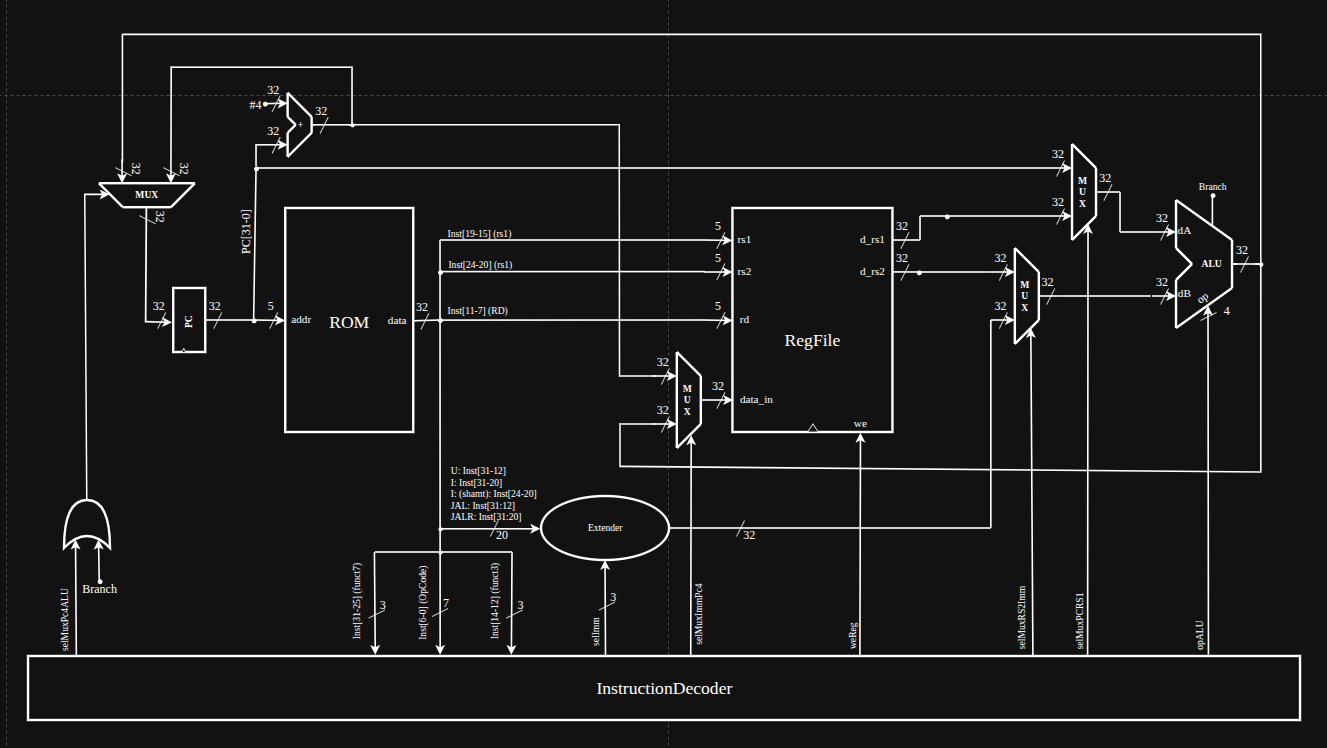
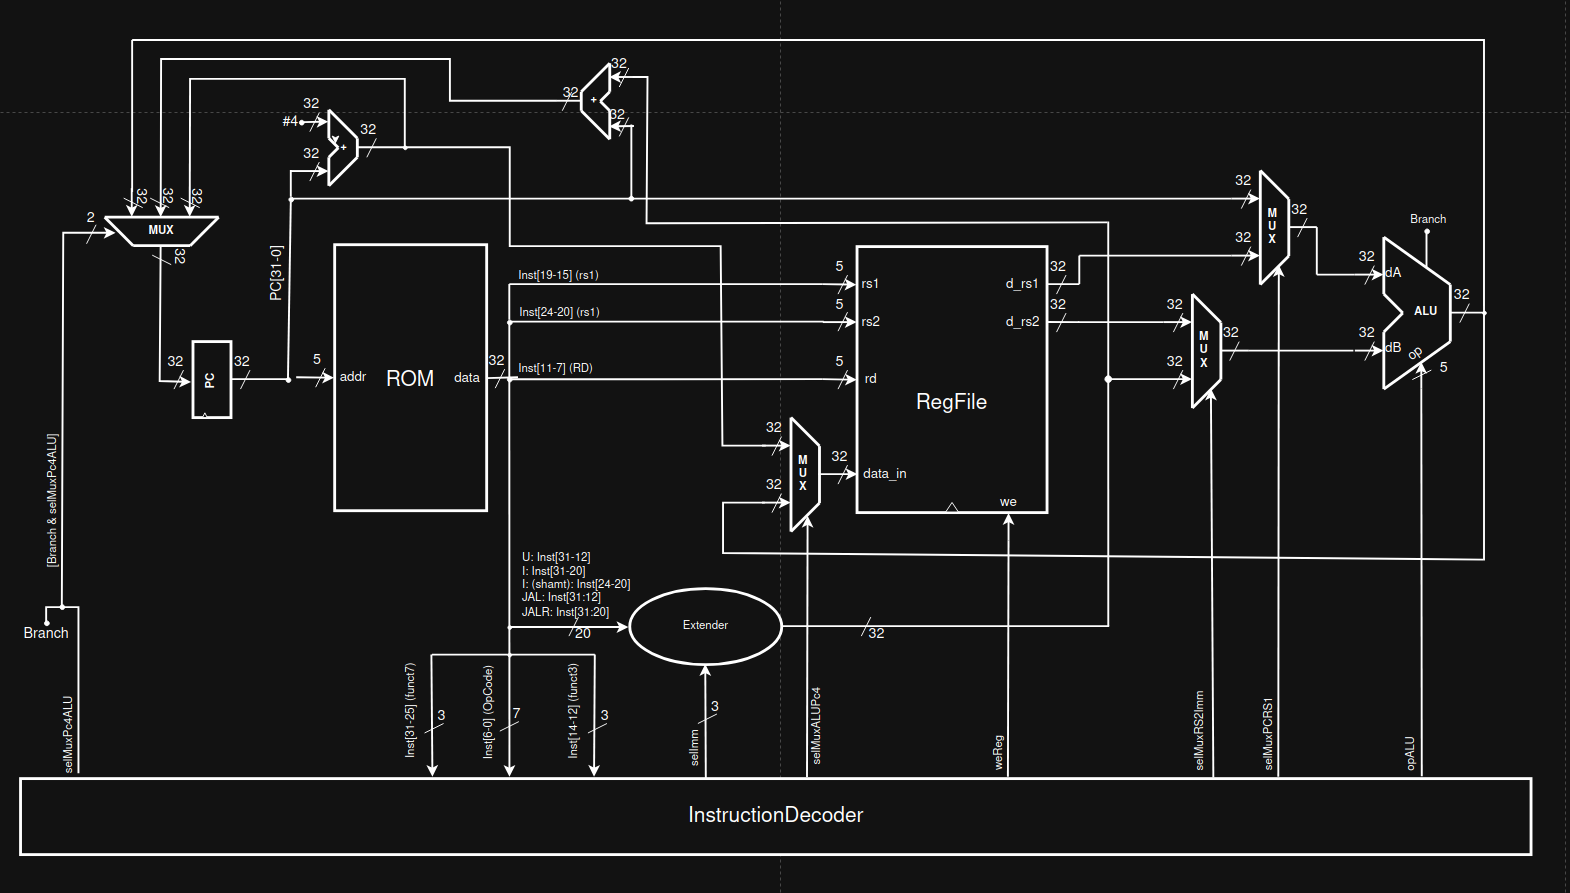
correcao diagramas

Changed region(s): [[0.0, 0.0307, 0.9887, 0.984], [0.7415, 0.6765, 0.7724, 0.7072]]

diff --git a/docs/README.md b/docs/README.md
@@ -107,11 +107,11 @@ A implementação das instruções em hardware foi conduzida de forma incrementa
 **[ALTERADO]**: Alterado
 
 #### Extender — Operações
-- **[NOVO]****U**: `out[31:0] = sext(instr[31:12] << 12)`
+- **[NOVO]** **U**: `out[31:0] = sext(instr[31:12] << 12)`
 
 #### ALU — Operações
-- **[NOVO]****PASS_B** : `out[31:0] = B[31:0]`
-- **[NOVO]****ADD**  : `out[31:0] = A[31:0] + B[31:0]`
+- **[NOVO]** **PASS_B** : `out[31:0] = B[31:0]`
+- **[NOVO]** **ADD**  : `out[31:0] = A[31:0] + B[31:0]`
 
 #### Decoder
 - **Entradas**
@@ -143,18 +143,18 @@ A implementação das instruções em hardware foi conduzida de forma incrementa
 
 #### Extender — Operações
 - **U**: `out[31:0] = sext(instr[31:12] << 12)`
-- **[NOVO]****I**: `out[31:0] = sext(instr[31:20])`
-- **[NOVO]****I_shamt**: `out[31:0] =  zext(instr[24:20])` (Preenhce com zeros a esquerda) (Neste momento, para as operaões de shamt)
+- **[NOVO]** **I**: `out[31:0] = sext(instr[31:20])`
+- **[NOVO]** **I_shamt**: `out[31:0] =  zext(instr[24:20])` (Preenhce com zeros a esquerda) (Neste momento, para as operaões de shamt)
 
 #### ALU — Operações
 - **PASS_B** : `out[31:0] = B[31:0]`
 - **ADD**    : `out[31:0] = A[31:0] + B[31:0]`
-- **[NOVO]****XOR**    : `out[31:0] = A[31:0] ^ B[31:0]`
-- **[NOVO]****OR**     : `out[31:0] = A[31:0] | B[31:0]`
-- **[NOVO]****AND**    : `out[31:0] = A[31:0] & B[31:0]`
-- **[NOVO]****SLL**    : `out[31:0] = A[31:0] << B[4:0]` (Desloca os bits de A á esquerda, preenchendo com zero a direita)
-- **[NOVO]****SRL**    : `out[31:0] = A[31:0] >> u B[4:0]` (Desloca os bits de A para a direita, preenchendo com zeros à esquerda).
-- **[NOVO]****SRA**    : `out[31:0] = A[31:0] << s B[4:0]` (Desloca os bits de A para a direita, replicando o bit do sinal de A á esquerda)
+- **[NOVO]** **XOR**    : `out[31:0] = A[31:0] ^ B[31:0]`
+- **[NOVO]** **OR**     : `out[31:0] = A[31:0] | B[31:0]`
+- **[NOVO]** **AND**    : `out[31:0] = A[31:0] & B[31:0]`
+- **[NOVO]** **SLL**    : `out[31:0] = A[31:0] << B[4:0]` (Desloca os bits de A á esquerda, preenchendo com zero a direita)
+- **[NOVO]** **SRL**    : `out[31:0] = A[31:0] >> u B[4:0]` (Desloca os bits de A para a direita, preenchendo com zeros à esquerda).
+- **[NOVO]** **SRA**    : `out[31:0] = A[31:0] << s B[4:0]` (Desloca os bits de A para a direita, replicando o bit do sinal de A á esquerda)
 
 
 #### Decoder
@@ -207,9 +207,9 @@ A implementação das instruções em hardware foi conduzida de forma incrementa
 - **SLL**    : `out[31:0] = A[31:0] << B[4:0]` (Desloca os bits de A á esquerda, preenchendo com zero a direita)
 - **SRL**    : `out[31:0] = A[31:0] >> u B[4:0]` (Desloca os bits de A para a direita, preenchendo com zeros à esquerda).
 - **SRA**    : `out[31:0] = A[31:0] << s B[4:0]` (Desloca os bits de A para a direita, replicando o bit do sinal de A á esquerda)
-- **[NOVO]****SUB**    : `out[31:0] = A[31:0] - B[31:0]`
-- **[NOVO]****SLT**    : `out[31:0] = A[31:0] < s B[31:0] ? 1 : 0`
-- **[NOVO]****SLTU**    : `out[31:0] = A[31:0] < u B[31:0] ? 1 : 0`
+- **[NOVO]** **SUB**    : `out[31:0] = A[31:0] - B[31:0]`
+- **[NOVO]** **SLT**    : `out[31:0] = A[31:0] < s B[31:0] ? 1 : 0`
+- **[NOVO]** **SLTU**    : `out[31:0] = A[31:0] < u B[31:0] ? 1 : 0`
 
 
 #### Decoder
@@ -246,8 +246,8 @@ A implementação das instruções em hardware foi conduzida de forma incrementa
 - **U**: `out[31:0] = sext(instr[31:12] << 12)`
 - **I**: `out[31:0] = sext(instr[31:20])`
 - **I_shamt**: `out[31:0] =  zext(instr[24:20])` (Preenhce com zeros a esquerda)
-- **[NOVO]****JAL**: `out[31:0] = sext(offset) = sext(inst[31 & 30:21 & 20 & 19:12 & '0'])`
-- **[NOVO]****JALR**: `out[31:0] = sext(offset) = sext(inst[31:20])`
+- **[NOVO]** **JAL**: `out[31:0] = sext(offset) = sext(inst[31 & 30:21 & 20 & 19:12 & '0'])`
+- **[NOVO]** **JALR**: `out[31:0] = sext(offset) = sext(inst[31:20])`
 
 #### ALU — Operações
 - **PASS_B** : `out[31:0] = B[31:0]`
@@ -369,11 +369,11 @@ A implementação das instruções em hardware foi conduzida de forma incrementa
 - **JALR**: `out[31:0] = sext(offset) = sext(inst[31:20])`
 
 #### [NOVO] ExtenderRAM — Operações
-- **[NOVO]****LB**: `out[31:0] = sext(data[7:0])`
-- **[NOVO]****LBU**: `out[31:0] = zeroext(data[7:0])`
-- **[NOVO]****LH**: `out[31:0] =  sext(data[15:0])`
-- **[NOVO]****LHU**: `out[31:0] = zeroext(data[15:0])`
-- **[NOVO]****LW**: `out[31:0] = data[31:0]`
+- **[NOVO]** **LB**: `out[31:0] = sext(data[7:0])`
+- **[NOVO]** **LBU**: `out[31:0] = zeroext(data[7:0])`
+- **[NOVO]** **LH**: `out[31:0] =  sext(data[15:0])`
+- **[NOVO]** **LHU**: `out[31:0] = zeroext(data[15:0])`
+- **[NOVO]** **LW**: `out[31:0] = data[31:0]`
 
 #### ALU — Operações
 - **PASS_B** : `out[31:0] = B[31:0]`

diff --git a/docs/DECODER.md b/docs/DECODER.md
@@ -1,4 +1,4 @@
-| INST | IMPL | OpCode[6:0] | funct3[2:0] | funct7[6:0] | SelMuxPc4ALU  | opExImm[2:0] | selMuxImmPc4RAM[1:0] | weReg | opExRAM[2:0] | selMuxRS2Imm | selMUXPcRS1 | opALU[4:0] | mask[3:0] | weRAM |
+| INST | IMPL | OpCode[6:0] | funct3[2:0] | funct7[6:0] | SelMuxPc4ALU  | opExImm[2:0] | selMuxALUPc4RAM[1:0] | weReg | opExRAM[2:0] | selMuxRS2Imm | selMUXPcRS1 | opALU[4:0] | mask[3:0] | weRAM |
 |-|-|-|-|-|-|-|-|-|-|-|-|-|-|-|
 | LUI       | x[rd] = sext(imm << 12) | 0110111 | - | - |0|U|00|1|XXX|1|X|PASS_B|XXXX|0|
 | AUIPC     | x[rd] = pc + sext(imm << 12) | 0010111 | - | - |0|U|00|1|XXX|1|0|ADD|XXXX|0|
@@ -19,14 +19,14 @@
 | SRA       | x[rd] = x[rs1] >>s x[rs2] | 0110011 | 101 | 0100000  |0|XXX|00|1|XXX|0|1|SRA|XXXX|0|
 | SLT       | x[rd] = (x[rs1] <s x[rs2]) ? 1:0 | 0110011 | 010 | 0000000 |0|XXX|00|1|XXX|0|1|SLT|XXXX|0|
 | SLTU      | x[rd] = (x[rs1] <u x[rs2]) ? 1:0 | 0110011 | 011 | 0000000 |0|XXX|00|1|XXX|0|1|SLTU|XXXX|0|
-| JAL       | x[rd] = pc+4; pc=pc+off   | 1101111 | - | - |0|JAL|01|1|XXX|1|0|ADD|XXXX|0|
-| JALR      | t=pc+4; pc=(x[rs1]+off)&~1; x[rd]=t | 1100111 | 000 | - |0|JALR|01|1|XXX|1|1|ADD|XXXX|0|
-| BEQ       | if(x[rs1]==x[rs2]) pc+=off | 1100011 | 000 | -       |1|XXX|10|1|XXX|0|1|BEQ|XXXX|0|
-| BNE       | if(x[rs1]!=x[rs2]) pc+=off | 1100011 | 001 | -       |1|XXX|10|1|XXX|0|1|BNE|XXXX|0|
-| BLT       | if(x[rs1]<s x[rs2]) pc+=off | 1100011 | 100 | -      |1|XXX|10|1|XXX|0|1|BLT|XXXX|0|
-| BGE       | if(x[rs1]>=s x[rs2]) pc+=off | 1100011 | 101 | -     |1|XXX|10|1|XXX|0|1|BGE|XXXX|0|
-| BLTU      | if(x[rs1]<u x[rs2]) pc+=off | 1100011 | 110 | -      |1|XXX|10|1|XXX|0|1|BLTU|XXXX|0|
-| BGEU      | if(x[rs1]>=u x[rs2]) pc+=off | 1100011 | 111 | -     |1|XXX|10|1|XXX|0|1|BGEU|XXXX|0|
+| JAL       | x[rd] = pc+4; pc=pc+off   | 1101111 | - | - |1|JAL|01|1|XXX|1|0|ADD|XXXX|0|
+| JALR      | t=pc+4; pc=(x[rs1]+off)&~1; x[rd]=t | 1100111 | - | - |1|JALR|01|1|XXX|1|1|ADD|XXXX|0|
+| BEQ       | if(x[rs1]==x[rs2]) pc+=off | 1100011 | 000 | -       |0|XXX|XX|0|XXX|0|1|BEQ|XXXX|0|
+| BNE       | if(x[rs1]!=x[rs2]) pc+=off | 1100011 | 001 | -       |0|XXX|XX|0|XXX|0|1|BNE|XXXX|0|
+| BLT       | if(x[rs1]<s x[rs2]) pc+=off | 1100011 | 100 | -      |0|XXX|XX|0|XXX|0|1|BLT|XXXX|0|
+| BGE       | if(x[rs1]>=s x[rs2]) pc+=off | 1100011 | 101 | -     |0|XXX|XX|0|XXX|0|1|BGE|XXXX|0|
+| BLTU      | if(x[rs1]<u x[rs2]) pc+=off | 1100011 | 110 | -      |0|XXX|XX|0|XXX|0|1|BLTU|XXXX|0|
+| BGEU      | if(x[rs1]>=u x[rs2]) pc+=off | 1100011 | 111 | -     |0|XXX|XX|0|XXX|0|1|BGEU|XXXX|0|
 | LW        | x[rd] = sext(M[x[rs1]+off][31:0]) | 0000011 | 010 | - |0|I|11|1|LW|1|1|ADD|XXXX|0|
 | LH        | x[rd] = sext(M[x[rs1]+off][15:0]) | 0000011 | 001 | - |0|I|11|1|LH|1|1|ADD|XXXX|0|
 | LHU       | x[rd] = zeroext(M[x[rs1]+off][15:0]) | 0000011 | 101 | - |0|I|11|1|LHU|1|1|ADD|XXXX|0|
